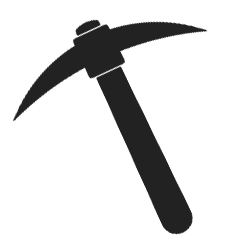
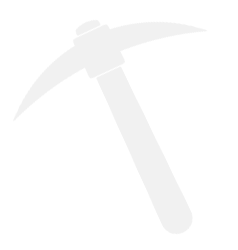
Cleaned up UI, added new font and bulked out home.html

Changed region(s): [[0.0588, 0.056, 0.8824, 0.952]]

diff --git a/static/css/style.css b/static/css/style.css
@@ -1,4 +1,5 @@
 @import url('https://fonts.googleapis.com/css?family=Inconsolata');
+@import url('https://fonts.googleapis.com/css?family=Abel');
 
 
 /*
@@ -6,12 +7,24 @@ Typography
  */
 
 
-h1, h2, p, a {
+p, a, .index {
   font-family: 'Inconsolata', monospace !important;
 }
 
+h2 {
+  font-size: 30px !important;
+  font-family: 'Abel', sans-serif !important;
+}
+
 h1 {
+  font-size: 60px !important;
+  text-decoration: underline;
+  font-family: 'Inconsolata', monospace !important;
   font-weight: bold !important;
+}
+
+#main p {
+  font-size: 15px !important;
 }
 
 
@@ -26,7 +39,7 @@ Nav
 
  .open-nav {
    cursor: pointer;
-   font-size: 30px;
+   font-size: 40px;
    transition: 0.5s;
    -webkit-transition: 0.5s;
    -moz-transition: 0.5s;
@@ -34,7 +47,7 @@ Nav
  }
 
  .close-nav {
-   font-size: 50px !important;
+   font-size: 55px !important;
  }
 
  #sidenav {
@@ -59,6 +72,10 @@ Nav
      font-size: 25px;
      color: #818181;
      display: block;
+     transition: 0.1s;
+     -webkit-transition: 0.1s;
+     -moz-transition: 0.1s;
+     -o-transition: 0.1s;
  }
 
  #sidenav a:hover {
@@ -76,6 +93,7 @@ Nav
  #main {
      transition: margin-left .5s;
      padding: 16px;
+     padding-top:0;
  }
 
  @media screen and (max-height: 450px) {
@@ -94,20 +112,23 @@ Chain
   padding: 10px;
   margin-right: 50px;
   margin-top: 50px;
-  width: 200px;
-  height: 200px;
+  width: 215px;
+  height: 215px;
   border: solid 5px black;
   box-shadow: 5px -5px rgba(0, 0, 0, 0.3);
 }
 
 .block .index {
   font-weight: bold;
+  font-size: 16px;
   display: block;
   margin-left: -15px;
   margin-top: -15px;
   margin-bottom: 15px;
   padding: 4px;
-  width: 200px;
+  padding-left: 10px;
+  padding-bottom: 27px;
+  width: 215px;
   height: 35px;
   border: solid 5px black;
 }
@@ -123,22 +144,25 @@ Assets
  */
 
 
-.pickaxe {
-  width: 50px;
+.pickaxe img {
+  width: 40px;
   padding: 8px 8px 8px 0;
+  margin-left: 2px;
   text-decoration: none;
   display: block;
   transition: 0.3s;
   -webkit-transition: 0.3s;
   -moz-transition: 0.3s;
   -o-transition: 0.3s;
+  opacity: 0.5;
 }
 
-.pickaxe:hover {
+.pickaxe:hover img {
   transform: rotate(-40deg);
   -webkit-transform: rotate(-40deg);
   -moz-transform: rotate(-40deg);
   -o-transform: rotate(-40deg);
+  opacity: 1;
 }
 
 .message {

diff --git a/templates/home.html b/templates/home.html
@@ -26,13 +26,36 @@
       <a href="/" onclick="closeNav()" class="active">Home</a>
       <a href="/about" onclick="closeNav()">About</a>
       <a href="/chain" onclick="closeNav()">Chain</a>
-      <a href="/mine"><img class="pickaxe" src="{{ url_for('static',filename='images/pickaxe.png') }}"/></a>
+      <a href="/mine" class="pickaxe"><img src="{{ url_for('static',filename='images/pickaxe.png') }}"/></a>
     </div>
 
     <div id="main">
       <span class="open-nav" onclick="openNav()">&#9776;</span>
       <div class="container">
         <h1>Home</h1>
+        <h2>Welcome to SEGCOIN</h2>
+        <div class="chain">
+          <div class="block">
+            <div class="index">What is SEGCOIN?</div>
+            <p>SEGCOIN is a decentralized, peer-to-peer digital transaction network based on
+            the same Blockchain Technology as Bitcoin and Ethereum.</p>
+          </div>
+          <div class="block">
+            <div class="index">Blockchain Technology?</div>
+            <p>A Blockchain is a list of blocks, where each block contains some data and a unique
+              link to the previous block in the chain.<br><br></p>
+          </div>
+          <div class="block">
+            <div class="index">What does that mean?</div>
+            <p>Once a block is added to the chain, it is linked with the previous chain in such
+            a way that if block data is then changed, the link breaks.</p>
+          </div>
+          <div class="block">
+            <div class="index">What good is that?</div>
+            <p>Since trying to change data on the chain will break the links, once data is in a
+              block it can't be changed without alerting the network.<br><br></p>
+          </div>
+        </div>
       </div>
     </div>
 

diff --git a/templates/chain.html b/templates/chain.html
@@ -23,10 +23,10 @@
 
     <div id="sidenav">
       <a href="javascript:void(0)" class="close-nav" onclick="closeNav()">&times;</a>
-      <a href="/">Home</a>
-      <a href="/about">About</a>
-      <a class="active" href="/chain">Chain</a>
-      <a href="/mine"><img class="pickaxe" src="{{ url_for('static',filename='images/pickaxe.png') }}"/></a>
+      <a href="/" onclick="closeNav()">Home</a>
+      <a href="/about" onclick="closeNav()">About</a>
+      <a href="/chain" onclick="closeNav()" class="active">Chain</a>
+      <a href="/mine" class="pickaxe"><img src="{{ url_for('static',filename='images/pickaxe.png') }}"/></a>
     </div>
 
     <div id="main">
@@ -67,6 +67,7 @@
       blockText += `<p class="timestamp"><b>Timestamp</b><br>${item.timestamp}</p>`;
       blockText += `<p class="transactions"><b>Transactions</b><br>${item.transactions.length}</p>`;
       blockText += `<p class="previous_hash"><b>Previous Hash</b><br>${item.previous_hash}</p>`;
+      blockText += '</div>';
       $('.chain').append(blockText);
     }
 

diff --git a/templates/about.html b/templates/about.html
@@ -23,16 +23,17 @@
 
     <div id="sidenav">
       <a href="javascript:void(0)" class="close-nav" onclick="closeNav()">&times;</a>
-      <a href="/">Home</a>
-      <a class="active" href="/about">About</a>
-      <a href="/chain">Chain</a>
-      <a href="/mine"><img class="pickaxe" src="{{ url_for('static',filename='images/pickaxe.png') }}"/></a>
+      <a href="/" onclick="closeNav()">Home</a>
+      <a href="/about" onclick="closeNav()" class="active">About</a>
+      <a href="/chain" onclick="closeNav()">Chain</a>
+      <a href="/mine" class="pickaxe"><img src="{{ url_for('static',filename='images/pickaxe.png') }}"/></a>
     </div>
 
     <div id="main">
       <span class="open-nav" onclick="openNav()">&#9776;</span>
       <div class="container">
         <h1>About</h1>
+        <h2>Est. 2017</h2>
       </div>
     </div>
 

diff --git a/templates/mined.html b/templates/mined.html
@@ -23,10 +23,10 @@
 
     <div id="sidenav">
       <a href="javascript:void(0)" class="close-nav" onclick="closeNav()">&times;</a>
-      <a href="/">Home</a>
-      <a href="/about">About</a>
-      <a class="active" href="/chain">Chain</a>
-      <a href="/mine"><img class="pickaxe" src="{{ url_for('static',filename='images/pickaxe.png') }}"/></a>
+      <a href="/" onclick="closeNav()">Home</a>
+      <a href="/about" onclick="closeNav()">About</a>
+      <a href="/chain" onclick="closeNav()">Chain</a>
+      <a href="/mine" class="pickaxe"><img src="{{ url_for('static',filename='images/pickaxe.png') }}"/></a>
     </div>
 
     <div id="main">
